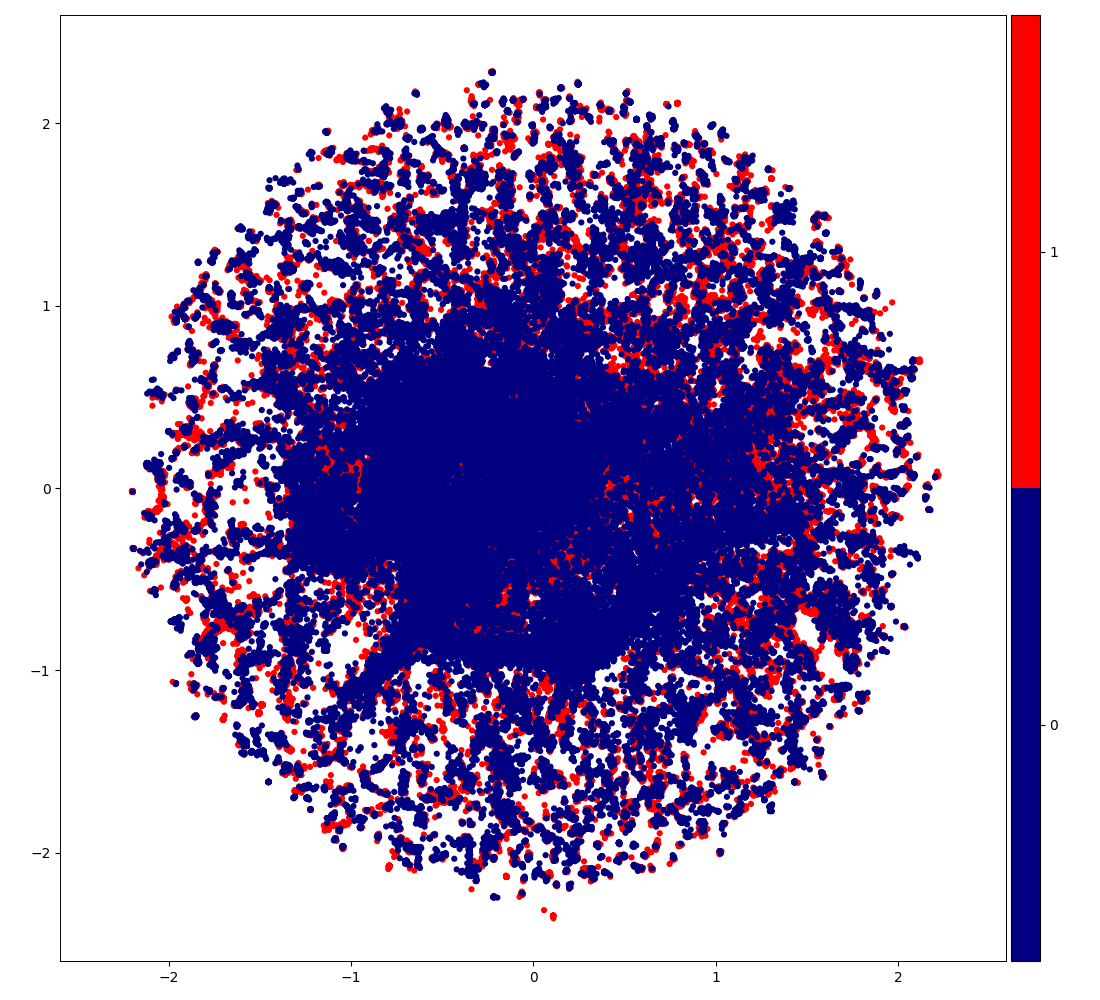
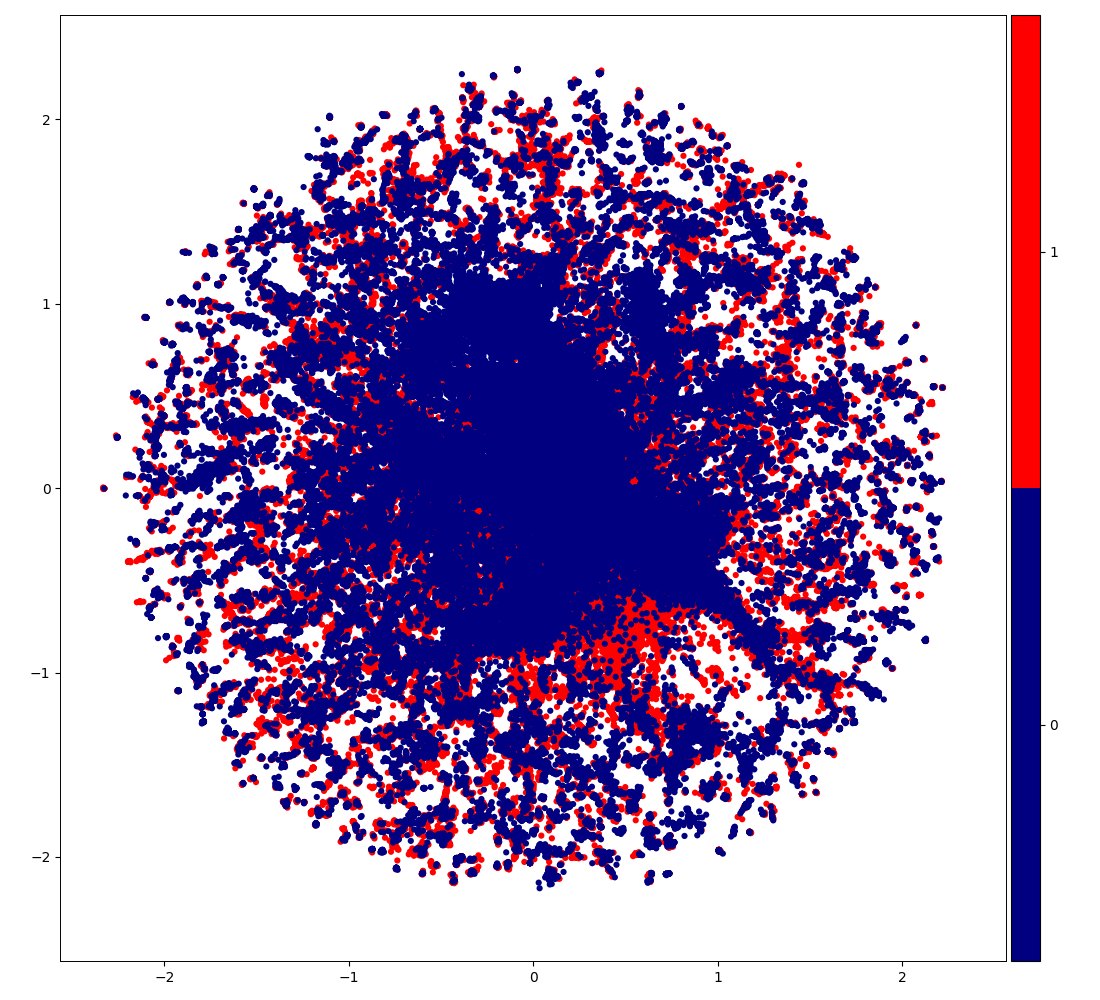
Created CSV files (not included in the repository due to the size) - uploaded scripts for that. Redone visualisation (attempted rotation).

diff --git a/scripts/file_actions.py b/scripts/file_actions.py
@@ -93,13 +93,27 @@ def print_tensor_elements(dataset, keys, out_file):
     file_handle.close()
 
 # A function that prints embedding with its temperature label as CSV
-def print_tensor_as_CSV(data, keys):
+def print_tensor_as_CSV(data, data_tensor, key_data, keys_tensor):
     # data - a dictionary that contains keys for which values are embeddings and temperature label
     # keys - an array with a key pair: ['x_set', 'y_set']
-    for i in range(len(data[keys[0]])):
-        record = get_temperature_label_as_CSV(data, i, keys[1], False) + get_embeddings_tensor_as_CSV(data, i, keys[0], True)
+    for i in range(len(data_tensor[keys_tensor[0]])):
+        record = get_id_as_CSV(data, i, key_data, 0) + get_id_as_CSV(data, i, key_data, 1) + get_temperature_label_as_CSV(data_tensor, i, keys_tensor[1], False) + get_embeddings_tensor_as_CSV(data_tensor, i, keys_tensor[0], True)
         print(record)
 
+def get_id_as_CSV(data, index, key, id_index, last_value=False):
+    # data - an object with sequences in FASTA format
+    # index - the index of record in data object
+    # key - the chosen key of an inside of data object
+    # id_index - index that determines which part of FASTA header is taken 
+    #        0 - taxonomy ID
+    #        1 - protein ID
+    #        2 - temperature label
+    identificator = data[key]['X'][index].name.split('|')[id_index]
+    if last_value:
+        return identificator
+    else:
+        return identificator + ', '
+        
 # A function that processes embeddings to be represented in CSV format
 def get_embeddings_tensor_as_CSV(data, embedding_tensor_index, key, last_value=False):
     record = ''
@@ -108,11 +122,11 @@ def get_embeddings_tensor_as_CSV(data, embedding_tensor_index, key, last_value=F
         record = record + embeddings_element
 
         if j == 1279 and not last_value:
-            record = record + ", "
+            record = record + ', '
         elif j == 1279 and last_value:
             record = record 
         else:
-            record = record + ", "
+            record = record + ', '
 
     return record
 

diff --git a/scripts/003/003_convert_NPZ_to_CSV_validation.py b/scripts/003/003_convert_NPZ_to_CSV_validation.py
@@ -1,5 +1,8 @@
 #!/usr/bin/env python3.7
 
+# A script to write validation tensors to a CSV file
+# Usage: ./scripts/003/003_convert_NPZ_to_CSV_validation.py > data/003/CSV/validation_v2.csv
+
 import os
 import sys
 
@@ -12,29 +15,15 @@ from dataset_processing import create_data
 from dataset_processing import filter_sequences
 from dataset_processing import get_ESM_embeddings_as_tensor
 
-print("Creating data object")
 data = create_data('data/003/', dataset_names=['training_v2', 
                                                'validation_v2',
                                                'testing_v2'])                                                                                           
 
-print("Filtering training data")
-filter_sequences(data, 'train', data['train']['embeddings'])
-
-print("Filtering validation data")
 filter_sequences(data, 'validate', data['validate']['embeddings'])
 
-print("Filtering testing data")
-filter_sequences(data, 'validate', data['testing']['embeddings'])
-
-print("Converting ESM embeddings (training) to tensor")
-[Xs_train_tensor, Ys_train_tensor] = get_ESM_embeddings_as_tensor(data, 
-                                                                  ['train'])
-print("Converting ESM embeddings (validation) to tensor")
 [Xs_validate_tensor, Ys_validate_tensor] = get_ESM_embeddings_as_tensor(data, 
                                                                   ['validate'])
 
-print("Converting ESM embeddings (testing) to tensor")
-[Xs_test_tensor, Ys_test_tensor] = get_ESM_embeddings_as_tensor(data, 
-                                                                  ['test'])
+data_tensor = { 'x_validate': Xs_validate_tensor, 'y_validate': Ys_validate_tensor }
+print_tensor_as_CSV(data, data_tensor, 'validate', ['x_validate', 'y_validate'])
 
-print_tensor_as_CSV(data, ['x_test', 'y_test'])

diff --git a/scripts/004/004_embeddings.py b/scripts/004/004_embeddings.py
@@ -1,0 +1,60 @@
+#!/usr/bin/env python3.7
+
+import sys
+from Bio import SeqIO
+
+input_FASTA = sys.argv[1]
+
+class_0 = {}
+class_1 = {}
+
+# A function that fills up dictionaries of classes if according records
+def sort_FASTA(file_name, class_0, class_1):
+    for record in SeqIO.parse(file_name, 'fasta'):
+        header_arr = record.name.split('|')
+        if(int(header_arr[2]) >= 65):
+            if header_arr[0] not in class_1:
+                class_1[header_arr[0]] = []
+            class_1[header_arr[0]].append(record)
+        else:
+            if header_arr[0] not in class_0:
+                class_0[header_arr[0]] = []
+            class_0[header_arr[0]].append(record)     
+
+sort_FASTA(input_FASTA, class_0, class_1)
+
+class_0_keys_sorted = sorted(class_0.keys())
+
+# Class 0 proteomes for 004 training
+for i in range(32):
+    for record in class_0[class_0_keys_sorted[i]]:
+        print(record.name)
+
+# Class 0 proteomes for 004 validation
+for i in range(33, 40):
+    for record in class_0[class_0_keys_sorted[i]]:
+        print(record.name)
+
+# Class 0 proteomes for 004 testing
+for i in range(40, 51):
+    for record in class_0[class_0_keys_sorted[i]]:
+        print(record.name)
+
+class_1_keys_sorted = sorted(class_1.keys())
+
+# Class 1 proteomes for 004 training
+for i in range(77):
+    for record in class_1[class_1_keys_sorted[i]]:
+        print(record.name)
+
+# Class 1 proteomes for 004 validation
+for i in range(77, 94):
+    for record in class_1[class_1_keys_sorted[i]]:
+        print(record.name)
+
+# Class 1 proteomes for 004 testing
+for i in range(94, 111):
+    for record in class_1[class_1_keys_sorted[i]]:
+        print(record.name)
+
+# Need to collect embeddings from according sets

diff --git a/scripts/003/003_convert_NPZ_to_CSV_training.py b/scripts/003/003_convert_NPZ_to_CSV_training.py
@@ -1,0 +1,28 @@
+#!/usr/bin/env python3.7
+
+# A script to write training tensors to a CSV file
+# Usage: ./scripts/003/003_convert_NPZ_to_CSV_training.py > data/003/CSV/training_v2.csv
+
+import os
+import sys
+
+current = os.path.dirname(os.path.realpath(__file__))
+parent = os.path.dirname(current)
+sys.path.append(parent)
+
+from file_actions import print_tensor_as_CSV
+from dataset_processing import create_data
+from dataset_processing import filter_sequences
+from dataset_processing import get_ESM_embeddings_as_tensor
+
+data = create_data('data/003/', dataset_names=['training_v2', 
+                                               'validation_v2',
+                                               'testing_v2'])                                                                                           
+
+filter_sequences(data, 'train', data['train']['embeddings'])
+
+[Xs_train_tensor, Ys_train_tensor] = get_ESM_embeddings_as_tensor(data, 
+                                                                  ['train'])
+
+data_tensor = { 'x_training': Xs_train_tensor, 'y_train': Ys_train_tensor }
+print_tensor_as_CSV(data, data_tensor, 'train', ['x_train', 'y_train'])

diff --git a/scripts/003/003_convert_NPZ_to_CSV_testing.py b/scripts/003/003_convert_NPZ_to_CSV_testing.py
@@ -1,0 +1,28 @@
+#!/usr/bin/env python3.7
+
+# A script to write testing tensors to a CSV file
+# Usage: ./scripts/003/003_convert_NPZ_to_CSV_testing.py > data/003/CSV/testing_v2.csv
+
+import os
+import sys
+
+current = os.path.dirname(os.path.realpath(__file__))
+parent = os.path.dirname(current)
+sys.path.append(parent)
+
+from file_actions import print_tensor_as_CSV
+from dataset_processing import create_data
+from dataset_processing import filter_sequences
+from dataset_processing import get_ESM_embeddings_as_tensor
+
+data = create_data('data/003/', dataset_names=['training_v2', 
+                                               'validation_v2',
+                                               'testing_v2'])                                                                                           
+
+filter_sequences(data, 'test', data['test']['embeddings'])
+
+[Xs_test_tensor, Ys_test_tensor] = get_ESM_embeddings_as_tensor(data, 
+                                                                  ['test'])
+
+data_tensor = { 'x_test': Xs_test_tensor, 'y_test': Ys_test_tensor }
+print_tensor_as_CSV(data, data_tensor, 'test', ['x_test', 'y_test'])

diff --git a/scripts/004/004_filtered_FASTA.py b/scripts/004/004_filtered_FASTA.py
@@ -1,0 +1,34 @@
+#!/usr/bin/env python3.7
+
+# A script that filters out sequences that do not have embeddings
+# and saves them to one FASTA file.
+
+# It has to be run after embeddings were generated.
+
+import sys
+import os
+
+current = os.path.dirname(os.path.realpath(__file__))
+parent = os.path.dirname(current)
+sys.path.append(parent)
+
+from file_actions import generate_embeddings
+from file_actions import save_tensors_as_NPZ
+from dataset_processing import create_data
+from dataset_processing import filter_sequences
+from dataset_processing import get_ESM_embeddings_as_tensor
+
+data = create_data('data/003/', dataset_names=['training_v2', 
+                                               'validation_v2',
+                                               'testing_v2'])
+
+filter_sequences(data, 'train', data['train']['embeddings'])
+
+filter_sequences(data, 'validate', data['validate']['embeddings'])
+
+filter_sequences(data, 'test', data['test']['embeddings'])
+
+for key in data.keys():
+    for record in data[key]['X_filtered']:
+        print('>'+record.name)
+        print(record.seq)

diff --git a/scripts/visualise_embeddings.py b/scripts/visualise_embeddings.py
@@ -124,6 +124,7 @@ def visualise_multiple_MDE(data, keys, plotpath, colormap, is_read_file_name_id=
     Xs_torch = None
     Xs_torch = torch.from_numpy(Xs)
     embedding = pymde.preserve_neighbors(Xs_torch, constraint=pymde.Standardized()).embed(verbose=True)
+    pymde.rotate(embedding, 90)
     pymde.plot(embedding, color_by=Ys, savepath=plotpath, color_map=colormap, figsize_inches=(11, 10), marker_size=20.0)
     
 def visualise_multiple_MDE_species(data, keys, plotpath, colormap):
